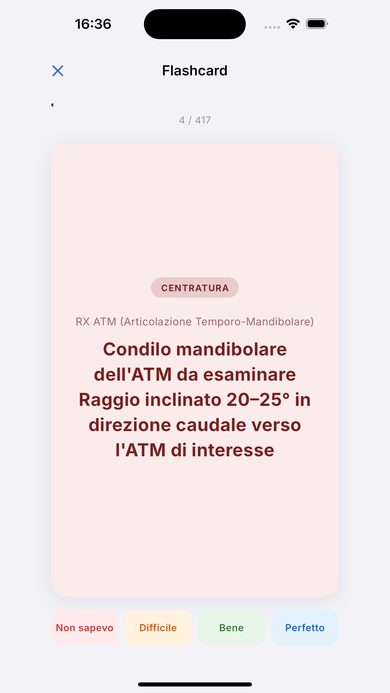
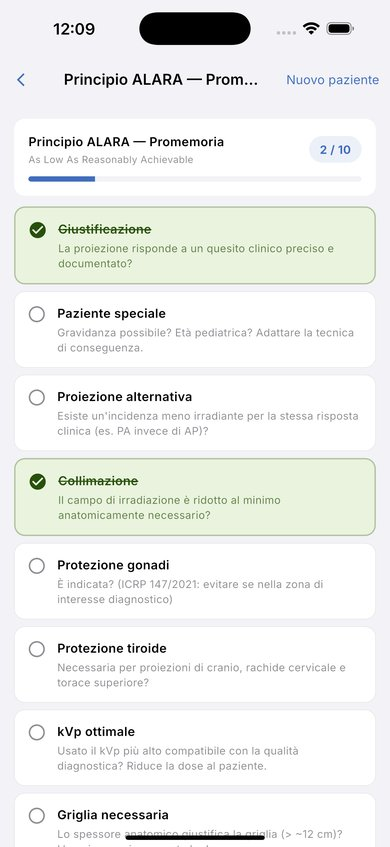
Screenshot iOS reali: iPhone 16 Pro Max, 5 schermate app

diff --git a/index.html b/index.html
@@ -365,7 +365,7 @@
     }
     .screenshot-frame {
       width: 210px;
-      height: 373px;
+      height: 456px;
       background: #1C1C1E;
       border-radius: 42px;
       padding: 10px;
@@ -678,16 +678,16 @@
 
     <div class="screenshot-item">
       <div class="screenshot-frame">
-        <img src="assets/screenshots/02_lista.jpg" alt="Lista proiezioni per zona con filtri STD/VAR" class="screenshot-img" loading="lazy">
+        <img src="assets/screenshots/02_dettaglio.jpg" alt="Scheda tecnica con parametri DR e CR" class="screenshot-img" loading="lazy">
       </div>
-      <span class="screenshot-label">Lista proiezioni</span>
+      <span class="screenshot-label">Scheda tecnica</span>
     </div>
 
     <div class="screenshot-item">
       <div class="screenshot-frame">
-        <img src="assets/screenshots/03_dettaglio.jpg" alt="Scheda tecnica con parametri DR e CR" class="screenshot-img" loading="lazy">
+        <img src="assets/screenshots/03_ricerca.jpg" alt="Ricerca globale con filtri zona e livello" class="screenshot-img" loading="lazy">
       </div>
-      <span class="screenshot-label">Scheda tecnica</span>
+      <span class="screenshot-label">Ricerca</span>
     </div>
 
     <div class="screenshot-item">